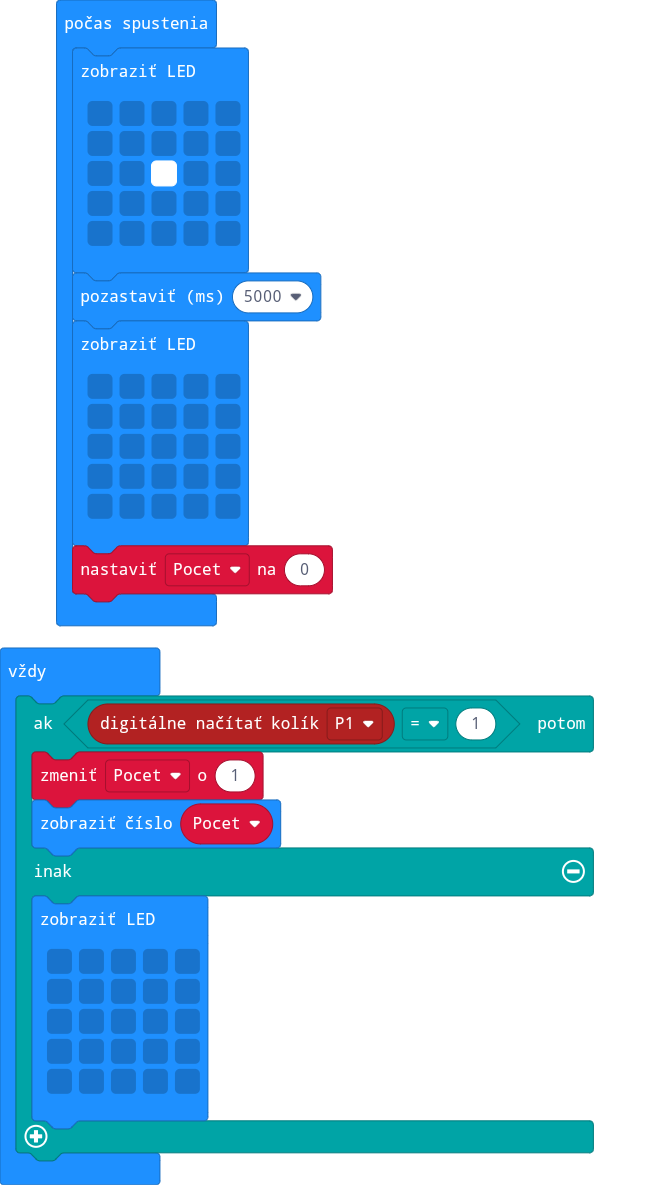
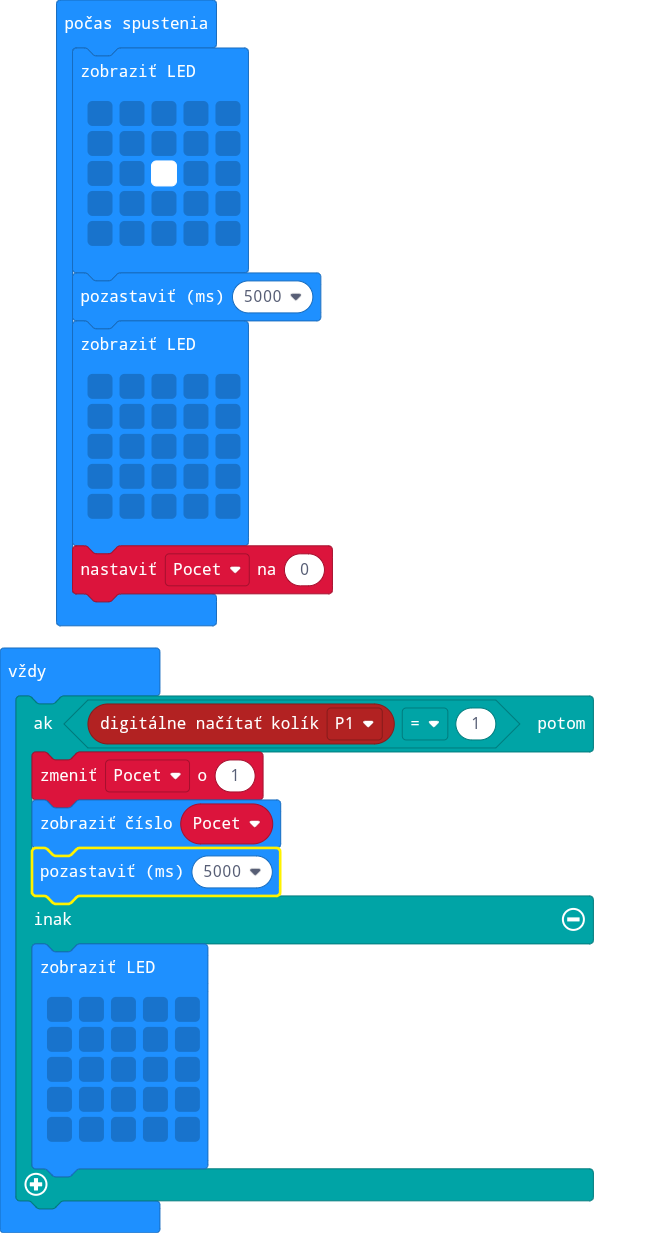
Aktualizovať main.blocks, main.ts

Changed region(s): [[0.0, 0.0, 0.9302, 0.9055], [0.031, 0.9367, 0.8992, 0.9992]]

diff --git a/main.ts b/main.ts
@@ -18,6 +18,7 @@ basic.forever(function () {
     if (pins.digitalReadPin(DigitalPin.P1) == 1) {
         Pocet += 1
         basic.showNumber(Pocet)
+        basic.pause(5000)
     } else {
         basic.showLeds(`
             . . . . .
